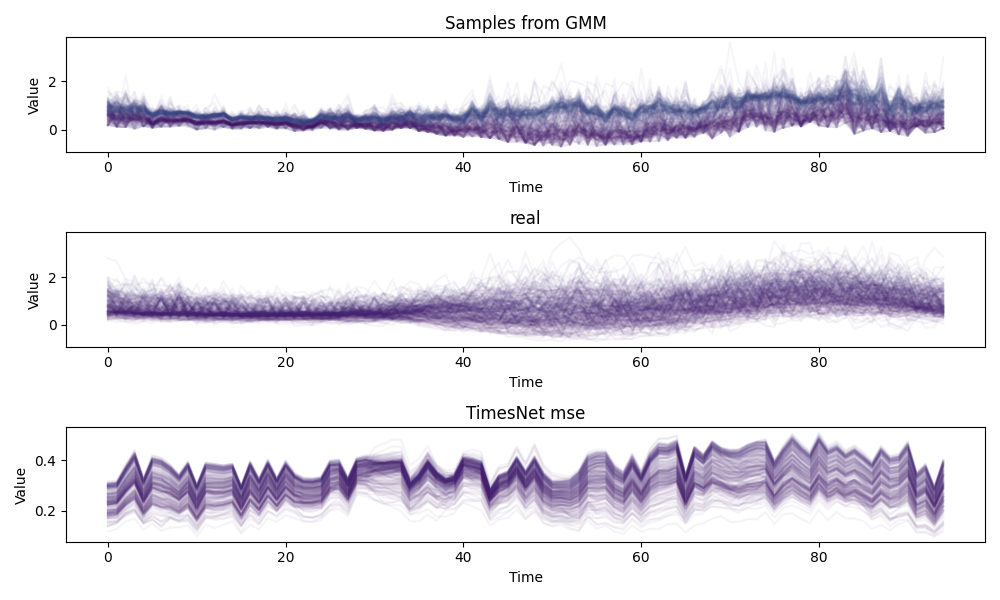
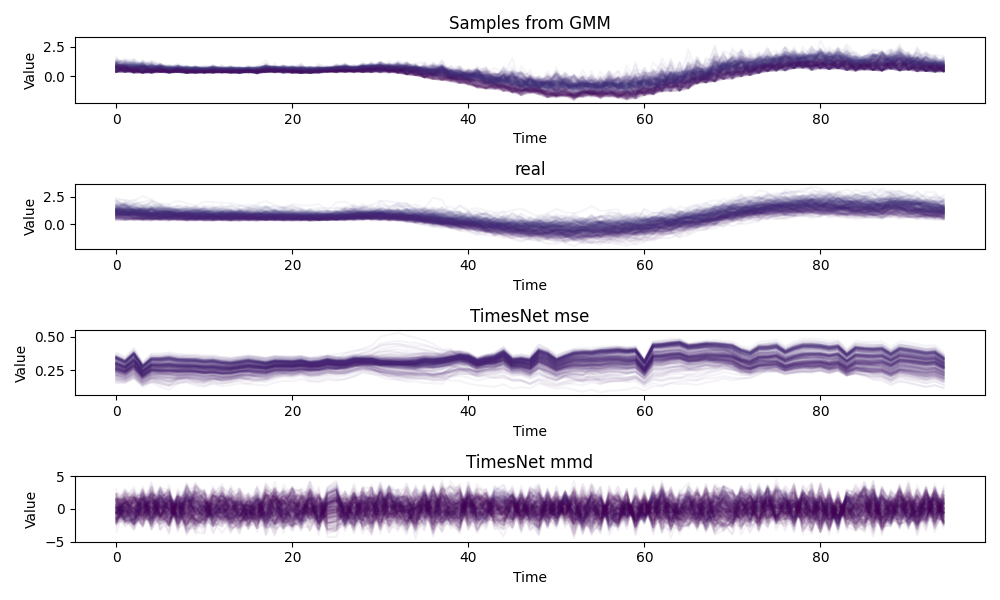
add

diff --git a/exp/exp_second_round/eva/eveload/sample_from_mainmodel.py b/exp/exp_second_round/eva/eveload/sample_from_mainmodel.py
@@ -27,6 +27,25 @@ torch.set_default_dtype(torch.float64)
 device = torch.device('cuda' if torch.cuda.is_available() else 'cpu')
 
 #%%
+"Load TimesNet mmd model"
+# check the model
+configs = TimesBlockConfig()
+model_timesnetmmd = timesnet.Model(configs).to(device)
+
+# print number of parameters
+num_params = sum(p.numel() for p in model_timesnetmmd.parameters())
+print(num_params)
+
+data_path = 'exp/data_process_for_data_collection_all/new_data_15minute_grid_nomerge.pkl'
+data_loader = timesloader.TimesNetLoader(data_path, 
+                                            batch_size=60, 
+                                            split_ration=(0.8, 0.1, 0.1),
+                                            full_length=366)
+
+model_path = 'exp/exp_second_round/timesnet_userload_mmd_15minutes/timesnet_MMD_1281536.pth'
+model_timesnetmmd.load_state_dict(torch.load(model_path, map_location=device))
+
+#%%
 "Load TimesNet mse model"
 # check the model
 configs = TimesBlockConfig()
@@ -35,12 +54,6 @@ model_timesnetmse = timesnet.Model(configs).to(device)
 # print number of parameters
 num_params = sum(p.numel() for p in model_timesnetmse.parameters())
 print(num_params)
-
-data_path = 'exp/data_process_for_data_collection_all/new_data_15minute_grid_nomerge.pkl'
-data_loader = timesloader.TimesNetLoader(data_path, 
-                                            batch_size=60, 
-                                            split_ration=(0.8, 0.1, 0.1),
-                                            full_length=366)
 
 model_path = 'exp/exp_second_round/timesnet_mse_userload_15minutes/30mr_timesnet_1281536.pth'
 model_timesnetmse.load_state_dict(torch.load(model_path, map_location=device))
@@ -112,19 +125,32 @@ for _random_num in [4, 8, 16, 32]:
     recover_test_sample_part = _test_sample_part[:, :, :-1].clone() * (max_test_data -min_test_data+1e-15) + min_test_data
     recover_test_sample_part = _test_sample_part[:, :, :-1].clone()
 
-    "TimesNet model"
+    "TimesNetmse model"
     full_series, index_mask = data_loader.load_test_data_times(test_data)
     test_data_timenetmse, random_mask, scaler = tt.normalize_and_mask_fix(full_series, index_mask, device, _random_num)
-    y_hat = model_timesnetmse(test_data_timenetmse.double(), None, random_mask.double())
+    y_hatmse = model_timesnetmse(test_data_timenetmse.double(), None, random_mask.double())
     
     # Scale back to original
-    y_hat = y_hat * (scaler[1] - scaler[0]) + scaler[0]
+    y_hatmse = y_hatmse * (scaler[1] - scaler[0]) + scaler[0]
     
     mask_bt = 1- index_mask.sum(dim=2) 
     mask_bt = mask_bt > 0
-    y_filtered_per_sample = [
-        y_hat[i, mask_bt[i], :]           # Tensor of shape [Z_i, F]
-        for i in range(y_hat.shape[0])
+    ymse_filtered_per_sample = [
+        y_hatmse[i, mask_bt[i], :]           # Tensor of shape [Z_i, F]
+        for i in range(y_hatmse.shape[0])
+    ]
+    
+    "TimesNetmmd model"
+    y_hatmmd = model_timesnetmmd(test_data_timenetmse.double(), None, random_mask.double())
+    
+    # Scale back to original
+    y_hatmmd = y_hatmmd * (scaler[1] - scaler[0]) + scaler[0]
+    
+    mask_bt = 1- index_mask.sum(dim=2) 
+    mask_bt = mask_bt > 0
+    ymmd_filtered_per_sample = [
+        y_hatmmd[i, mask_bt[i], :]           # Tensor of shape [Z_i, F]
+        for i in range(y_hatmmd.shape[0])
     ]
     
     "evaluate the model"
@@ -146,7 +172,12 @@ for _random_num in [4, 8, 16, 32]:
     ws_timesnetmse = 0
     msem_timesnetmse = 0
 
-
+    mmd_timesnetmmd = 0
+    kl_timesnetmmd = 0
+    ks_timesnetmmd = 0
+    ws_timesnetmmd = 0
+    msem_timesnetmmd = 0
+    
     for i in tqdm(range(batch_size)):
         # sample from the GMM
         _num=i
@@ -168,17 +199,26 @@ for _random_num in [4, 8, 16, 32]:
         msem_partreal = plot_eva.calculate_autocorrelation_mse(samples, _part_real)
         
         # TimesNet mse
-        _part_real_timesnetmse = y_filtered_per_sample[_num].cpu().detach().numpy()
+        _part_real_timesnetmse = ymse_filtered_per_sample[_num].cpu().detach().numpy()
         mmd_timesnetmse += plot_eva.compute_mmd(samples, _part_real_timesnetmse)
         kl_timesnetmse += plot_eva.compute_kl_divergence(samples, _part_real_timesnetmse)
         ks_timesnetmse += ks_2samp(samples.flatten(), _part_real_timesnetmse.flatten())[0]
         ws_timesnetmse += wasserstein_distance(samples.flatten(), _part_real_timesnetmse.flatten())
         msem_timesnetmse = plot_eva.calculate_autocorrelation_mse(samples, _part_real_timesnetmse)
+        
+        # timesnetmmd
+        _part_real_timesnetmmd = ymmd_filtered_per_sample[_num].cpu().detach().numpy()
+        mmd_timesnetmmd += plot_eva.compute_mmd(samples, _part_real_timesnetmmd)
+        kl_timesnetmmd += plot_eva.compute_kl_divergence(samples, _part_real_timesnetmmd)
+        ks_timesnetmmd += ks_2samp(samples.flatten(), _part_real_timesnetmmd.flatten())[0]
+        ws_timesnetmmd += wasserstein_distance(samples.flatten(), _part_real_timesnetmmd.flatten())
+        msem_timesnetmmd = plot_eva.calculate_autocorrelation_mse(samples, _part_real_timesnetmmd)
+        
         # print the shape of the samples
         
         # Plot the samples
         plt.figure(figsize=(10, 6))
-        plt.subplot(3, 1, 1)
+        plt.subplot(4, 1, 1)
 
         # plot the samples the colors indicate the sum of the samples
         samples = samples * (max_test_data[_num] -min_test_data[_num]+1e-15) + min_test_data[_num]
@@ -190,7 +230,7 @@ for _random_num in [4, 8, 16, 32]:
         plt.xlabel('Time')
         plt.ylabel('Value')
 
-        plt.subplot(3, 1, 2)
+        plt.subplot(4, 1, 2)
         # plot the real samples
         for i in range(test_data.shape[1]):
             _sum = test_data[_num, i, :-1].sum()
@@ -200,7 +240,7 @@ for _random_num in [4, 8, 16, 32]:
         plt.xlabel('Time')
         plt.ylabel('Value')
         
-        plt.subplot(3, 1, 3)
+        plt.subplot(4, 1, 3)
         # plot the timesnet mse samples
         for i in range(_part_real_timesnetmse.shape[0]):
             _sum = _part_real_timesnetmse[i, :-1].sum()
@@ -211,6 +251,18 @@ for _random_num in [4, 8, 16, 32]:
         plt.ylabel('Value')
         plt.tight_layout()
         
+        plt.subplot(4, 1, 4)
+        # plot the timesnet mmd samples
+        for i in range(_part_real_timesnetmmd.shape[0]):
+            _sum = _part_real_timesnetmmd[i, :-1].sum()
+            color = plt.cm.viridis(_sum / test_data.max())
+            plt.plot(_part_real_timesnetmmd[i, :-1], alpha=0.05, c=color)
+        plt.title('TimesNet mmd')
+        plt.xlabel('Time')
+        plt.ylabel('Value')
+        plt.tight_layout()
+        
+        # save the plot
         plt.savefig(f'exp/exp_second_round/eva/eveload/plot/samples_from_gmm_{_random_num}.png')
         plt.close()
 

diff --git a/exp/exp_second_round/timesnet_solar_mmd_15minutes/timesnet_train_mmd.py b/exp/exp_second_round/timesnet_solar_mmd_15minutes/timesnet_train_mmd.py
@@ -97,7 +97,7 @@ class MMDLoss(nn.Module):
 
 def train_and_evaluate(model, data_loader, optimizer, device, epochs, sub_epochs, test_steps, num_params):
     current_loss =10000
-    mmd_loss = MMDLoss(kernel_type='rbf', bandwidth=1.0)
+    mmd_loss = MMDLoss(kernel_type='rbf', bandwidth=0.3)
     for epoch in range(epochs):
         for sub_epoch in range(sub_epochs):
             # Training
